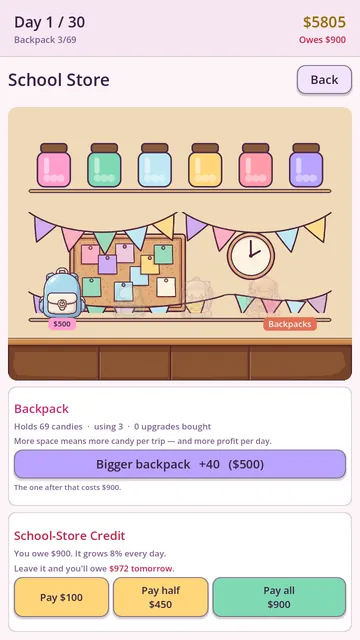
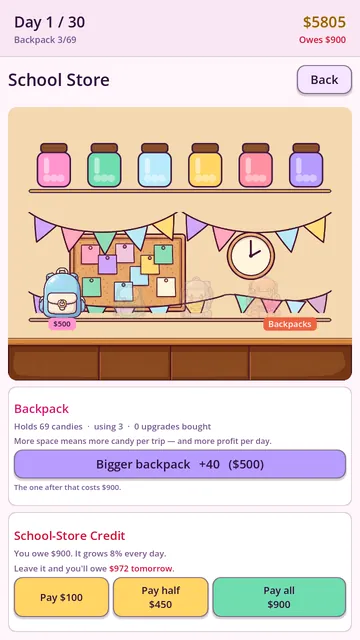
Seat the pale Candy Wars thumbnails against the dark page
Candy Wars' UI is deliberately high-key pastel, so at 145px on a black page its
thumbnails lost their edges and read as blank cards next to Tiến Lên's dark,
saturated shots.

Two changes, both restrained. A .light modifier frames those six thumbs in the
palette's gold with a deeper shadow, so each one has a defined edge — the dark
Tiến Lên thumbs keep the original hairline border and are untouched. And the
images are re-encoded with a light colour and contrast lift (1.14 / 1.07),
enough for pastels to hold together small without misrepresenting a palette the
game chose on purpose.

diff --git a/index.html b/index.html
@@ -103,6 +103,12 @@
   .gthumb:hover{transform:translateY(-4px);border-color:var(--gold2)}
   .gthumb:focus-visible{outline:3px solid var(--gold);outline-offset:3px;
     border-color:var(--gold2)}
+  /* Candy Wars' UI is high-key pastel, so on a black page these thumbs lose
+     their edges and read as blank cards. A warm frame and a deeper shadow give
+     them back the definition the dark Tiến Lên shots already have. */
+  .gthumb.light{border:2px solid var(--gold2);
+    box-shadow:0 4px 16px rgba(0,0,0,.7),0 0 0 1px rgba(0,0,0,.6)}
+  .gthumb.light:hover,.gthumb.light:focus-visible{border-color:var(--gold)}
   .lightbox{position:fixed;inset:0;background:rgba(0,0,0,.92);display:none;
     align-items:center;justify-content:center;z-index:50;cursor:zoom-out;padding:24px}
   .lightbox.on{display:flex}
@@ -235,12 +241,12 @@
         <span class="cap">Gameplay</span>
       </div>
       <div class="gallery">
-        <img class="gthumb" tabindex="0" role="button" src="shots/cw-market.webp" width="360" height="640" loading="lazy" alt="Buying candy at the Park sweet cart">
-        <img class="gthumb" tabindex="0" role="button" src="shots/cw-crew.webp" width="360" height="640" loading="lazy" alt="The Candy Crew — recruit friends with their own skills">
-        <img class="gthumb" tabindex="0" role="button" src="shots/cw-selloff.webp" width="360" height="640" loading="lazy" alt="A sell-off against a rival crew">
-        <img class="gthumb" tabindex="0" role="button" src="shots/cw-coinshop.webp" width="360" height="640" loading="lazy" alt="The Coin Shop — permanent unlocks">
-        <img class="gthumb" tabindex="0" role="button" src="shots/cw-town.webp" width="360" height="640" loading="lazy" alt="The town map — seven hangouts, each with its own prices">
-        <img class="gthumb" tabindex="0" role="button" src="shots/cw-schoolstore.webp" width="360" height="640" loading="lazy" alt="The School Store — backpack upgrades and credit">
+        <img class="gthumb light" tabindex="0" role="button" src="shots/cw-market.webp" width="360" height="640" loading="lazy" alt="Buying candy at the Park sweet cart">
+        <img class="gthumb light" tabindex="0" role="button" src="shots/cw-crew.webp" width="360" height="640" loading="lazy" alt="The Candy Crew — recruit friends with their own skills">
+        <img class="gthumb light" tabindex="0" role="button" src="shots/cw-selloff.webp" width="360" height="640" loading="lazy" alt="A sell-off against a rival crew">
+        <img class="gthumb light" tabindex="0" role="button" src="shots/cw-coinshop.webp" width="360" height="640" loading="lazy" alt="The Coin Shop — permanent unlocks">
+        <img class="gthumb light" tabindex="0" role="button" src="shots/cw-town.webp" width="360" height="640" loading="lazy" alt="The town map — seven hangouts, each with its own prices">
+        <img class="gthumb light" tabindex="0" role="button" src="shots/cw-schoolstore.webp" width="360" height="640" loading="lazy" alt="The School Store — backpack upgrades and credit">
       </div>
     </section>
 
